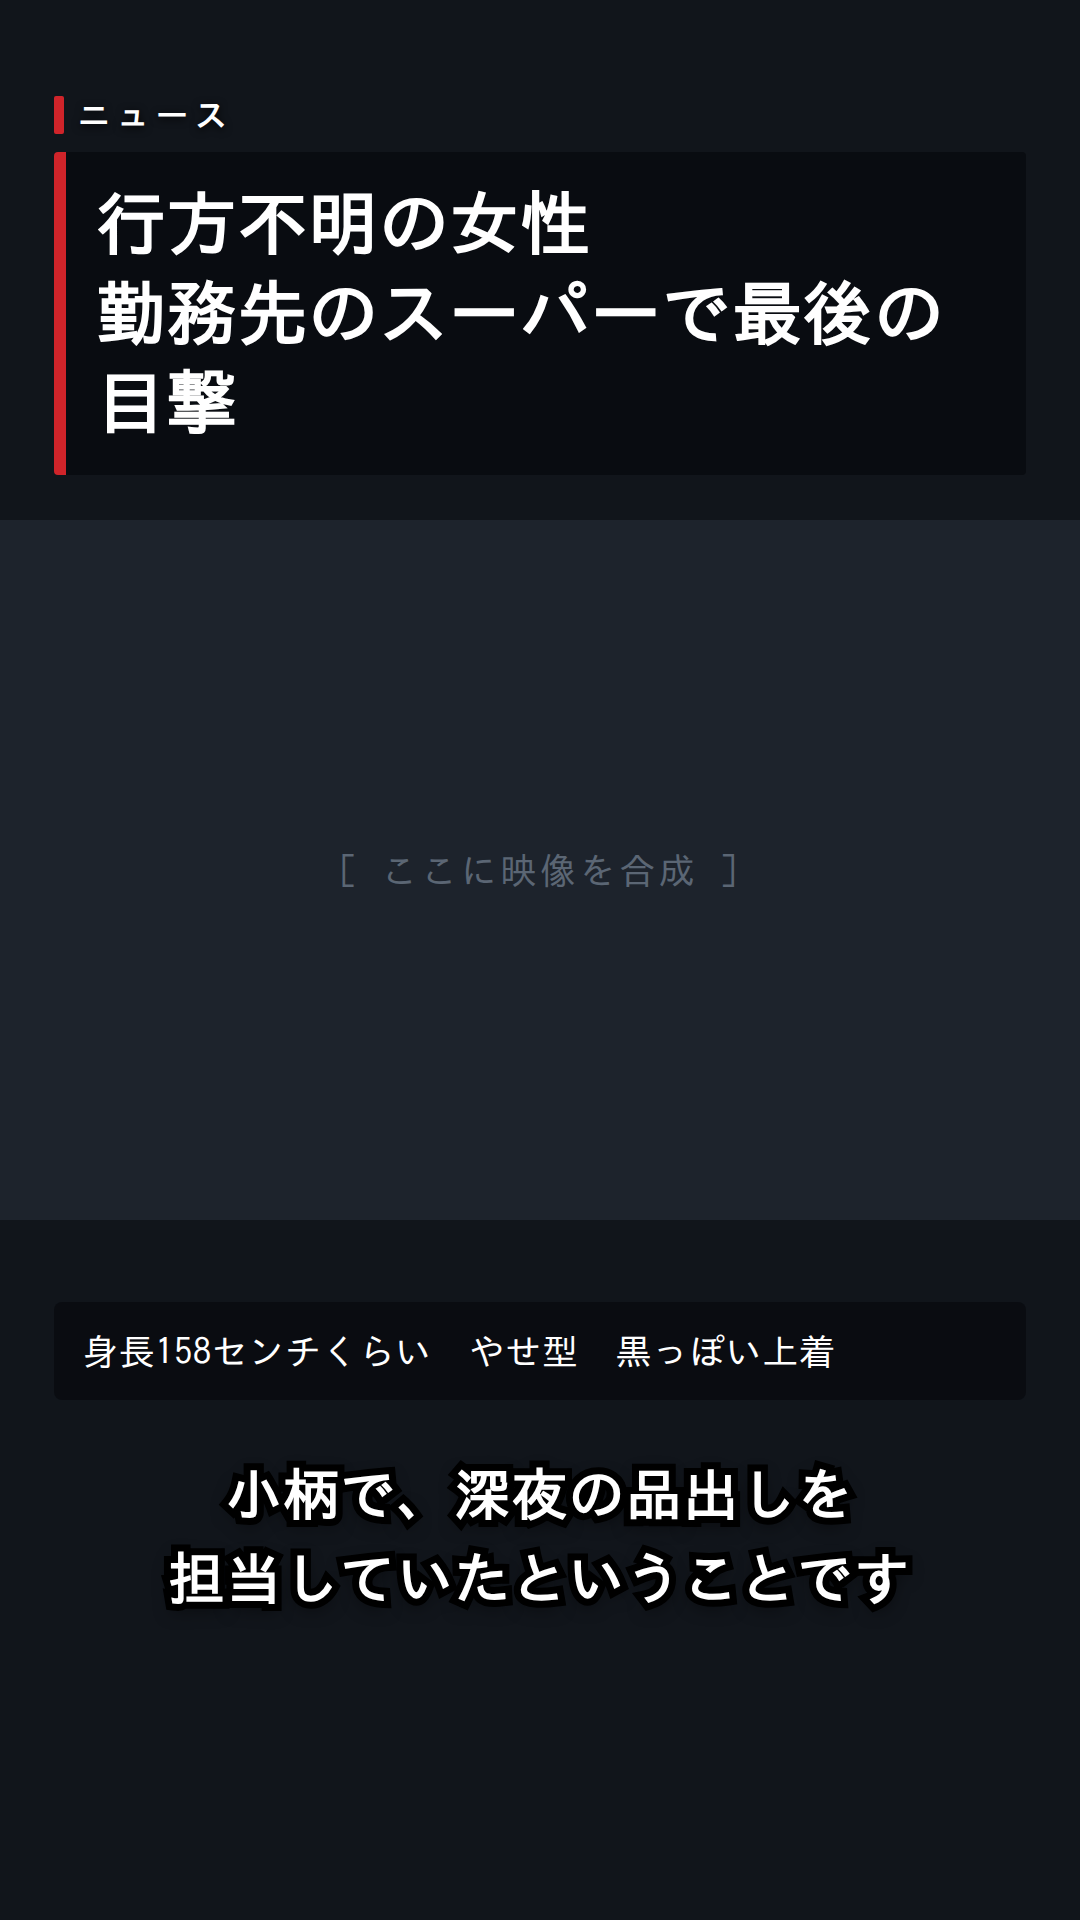
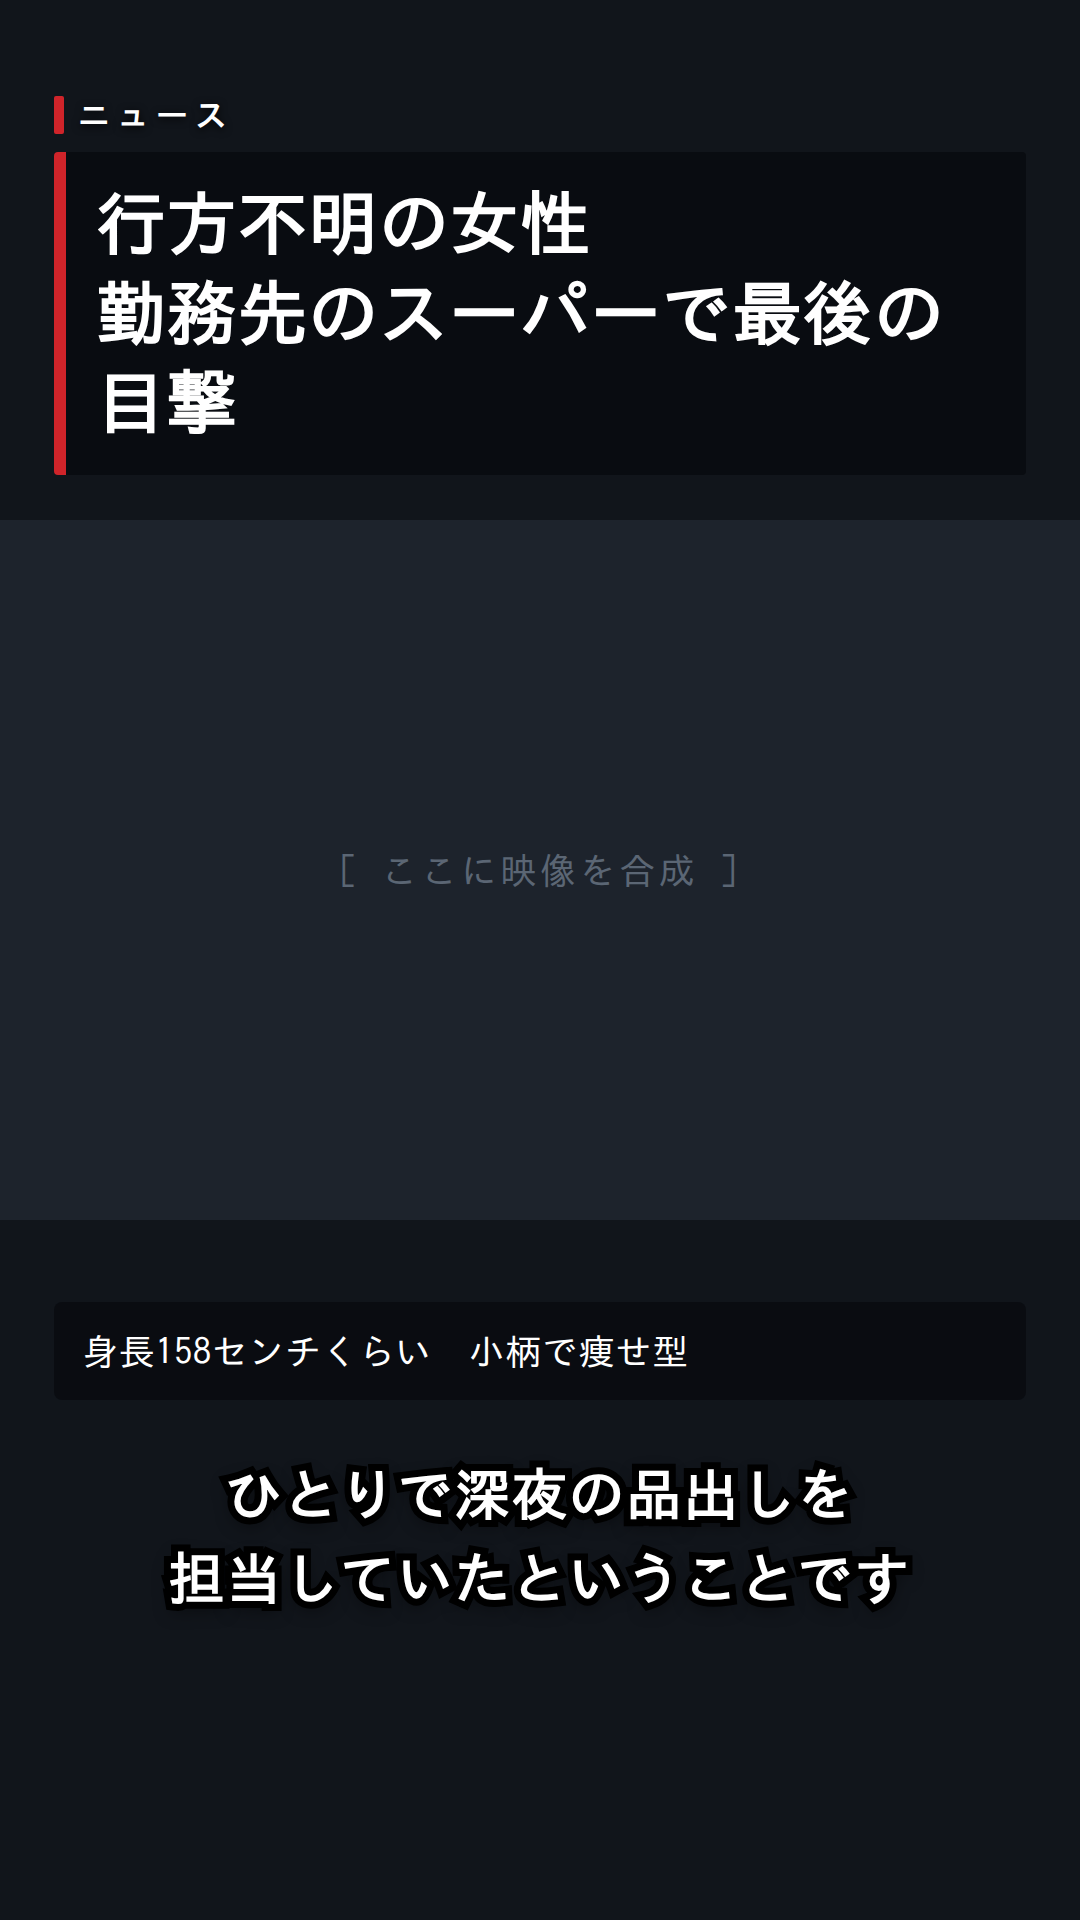
お会計: ニュースを「小柄で痩せ型」に、字幕は「ひとりで深夜の品出し」
Claude-Session: https://claude.ai/code/session_01DV5Uno6itkADc7bV4PwhDi

Changed region(s): [[0.2139, 0.75, 0.4278, 0.8125], [0.4278, 0.6875, 0.7639, 0.7188]]

diff --git a/docs/okaikei/assets/build.py b/docs/okaikei/assets/build.py
@@ -184,16 +184,16 @@ ASSETS = [
     ("news_n1_overlay",  ytnews("ニュース", "#d0242a", "27歳女性が<br>行方不明", "",
                           "今月2日から連絡が<br>取れなくなっています", plate=False), 1080, 1920, True),
     ("news_n2a",         ytnews("ニュース", "#d0242a", "行方不明の女性<br>勤務先のスーパーで最後の目撃",
-                          "身長158センチくらい　やせ型　黒っぽい上着",
-                          "小柄で、深夜の品出しを<br>担当していたということです"), 1080, 1920, False),
+                          "身長158センチくらい　小柄で痩せ型",
+                          "ひとりで深夜の品出しを<br>担当していたということです"), 1080, 1920, False),
     ("news_n2a_overlay", ytnews("ニュース", "#d0242a", "行方不明の女性<br>勤務先のスーパーで最後の目撃",
-                          "身長158センチくらい　やせ型　黒っぽい上着",
-                          "小柄で、深夜の品出しを<br>担当していたということです", plate=False), 1080, 1920, True),
+                          "身長158センチくらい　小柄で痩せ型",
+                          "ひとりで深夜の品出しを<br>担当していたということです", plate=False), 1080, 1920, True),
     ("news_n2b",         ytnews("ニュース", "#d0242a", "行方不明の女性<br>勤務先のスーパーで最後の目撃",
-                          "身長158センチくらい　やせ型　黒っぽい上着",
+                          "身長158センチくらい　小柄で痩せ型",
                           "勤務を終えたあと<br>店内の防犯カメラに姿が"), 1080, 1920, False),
     ("news_n2b_overlay", ytnews("ニュース", "#d0242a", "行方不明の女性<br>勤務先のスーパーで最後の目撃",
-                          "身長158センチくらい　やせ型　黒っぽい上着",
+                          "身長158センチくらい　小柄で痩せ型",
                           "勤務を終えたあと<br>店内の防犯カメラに姿が", plate=False), 1080, 1920, True),
     ("title",          TITLE,                      1080, 1920, False),
 ]
